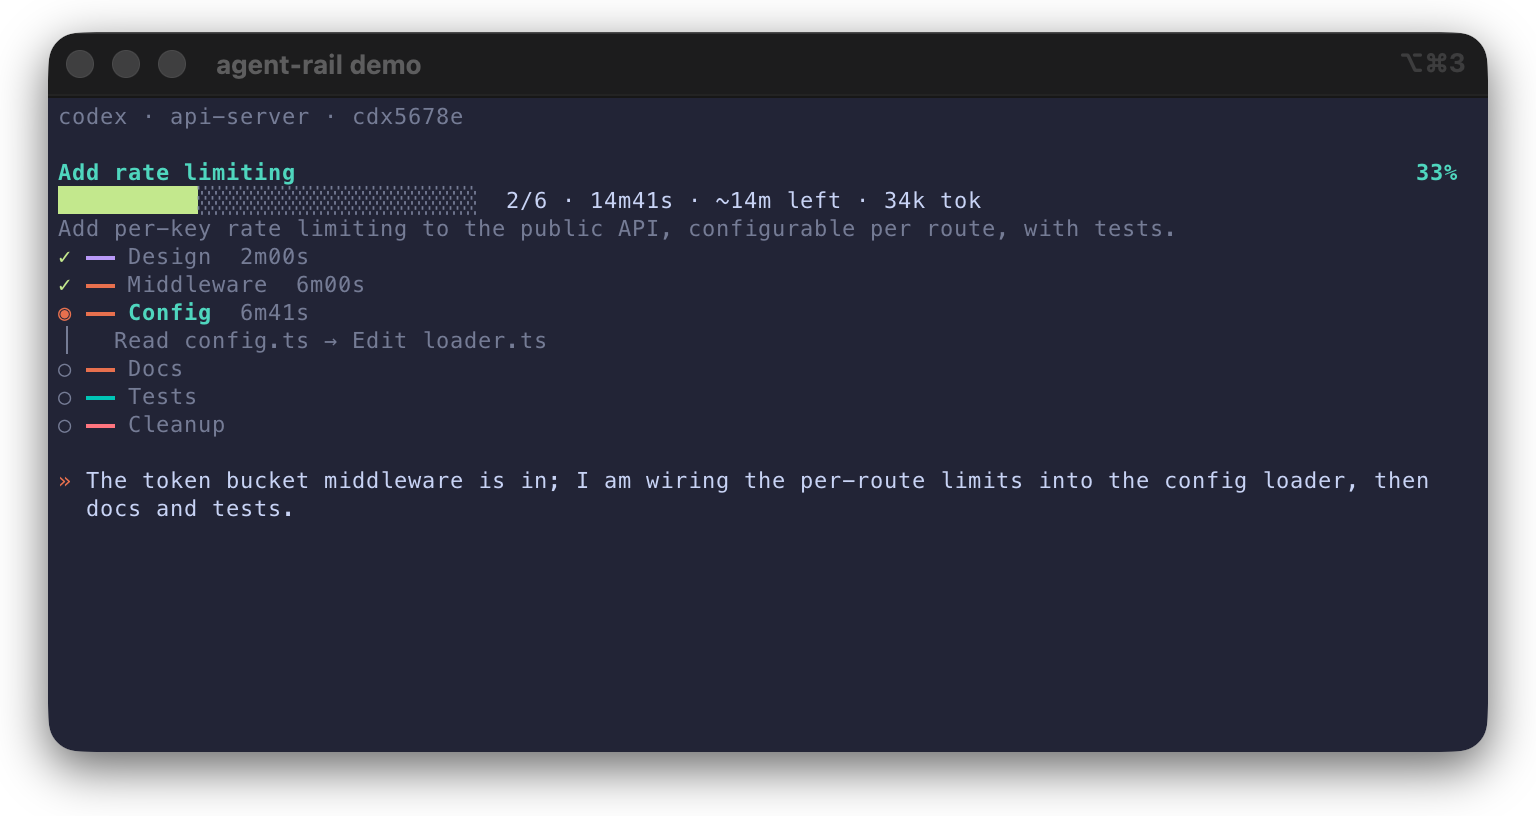
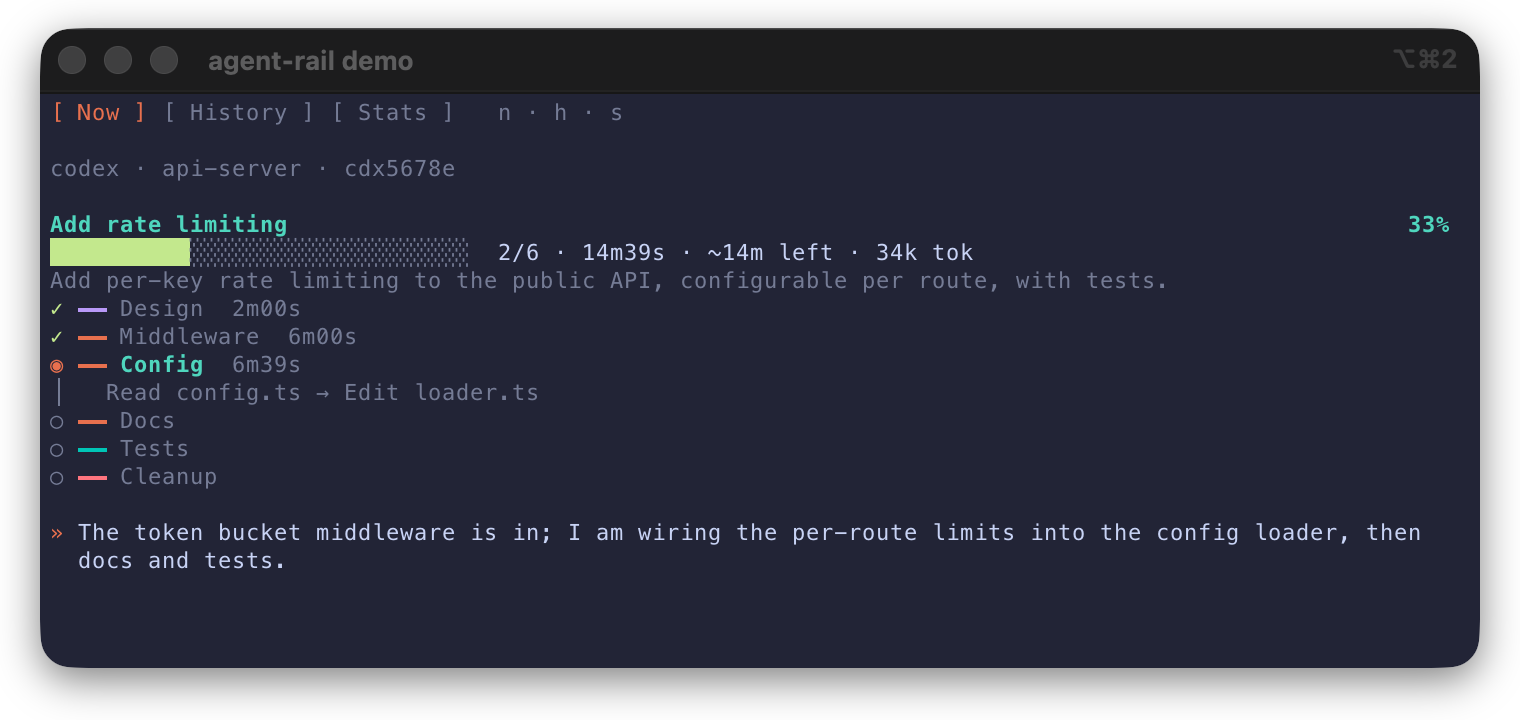
Give the terminal live view Now, History and Stats tabs (n, h, s), like the Claude pane
History and Stats show agent-rail-history's output, refreshed every 5 s;
q quits. The README's Codex screenshot shows the tab bar.

diff --git a/README.md b/README.md
@@ -92,7 +92,7 @@ Then, in a split beside Codex:
 node ~/agent-rail/bin/agent-rail-watch.mjs
 ```
 
-That is all: it follows the latest Codex session.
+That is all: it follows the latest Codex session. As in the Claude pane, `n`, `h` and `s` switch between **Now**, **History** and **Stats**; `q` quits.
 
 <p align="center"><img src="docs/images/codex-terminal.png" width="600" alt="The live rail of a Codex job in a terminal: its summary, stage-colored steps and durations, the current step's activity and the latest progress note"></p>
 
@@ -101,7 +101,7 @@ That is all: it follows the latest Codex session.
 <summary>More</summary>
 
 - Shortcut: the installer puts `rail` on PATH, the same command. Inside Codex, `$rail` opens it in a split in iTerm2, tmux, WezTerm or kitty (remote control on); elsewhere in a new Terminal window (the agent-rail hook opens it, outside the sandbox, so no approval is asked).
-- Add `claude` for the latest Claude Code session instead, an id prefix for one session, `--agents` to expand every agent row. Ctrl+C quits.
+- Add `claude` for the latest Claude Code session instead, an id prefix for one session, `--agents` to expand every agent row.
 - The installer adds the agent-rail hooks to `~/.codex/hooks.json` (backed up first, your own hooks kept), adds the `$rail` skill, and links `rail` into `~/.local/bin` (or the first writable folder of your PATH). Codex asks you to trust the new hooks on its next start.
 - Steps need Codex's `update_plan` tool. The installer asks before turning it on in `~/.codex/config.toml` (`--yes` turns it on, `--no-plan` skips the question; with no terminal to ask in, it skips). If your config already has a `[tools]` section it only prints the line to add yourself: `[tools.update_plan]` with `enabled = true`.
 - Codex jobs also show in the menubar, with their tokens (the main agent's and each subagent's).
